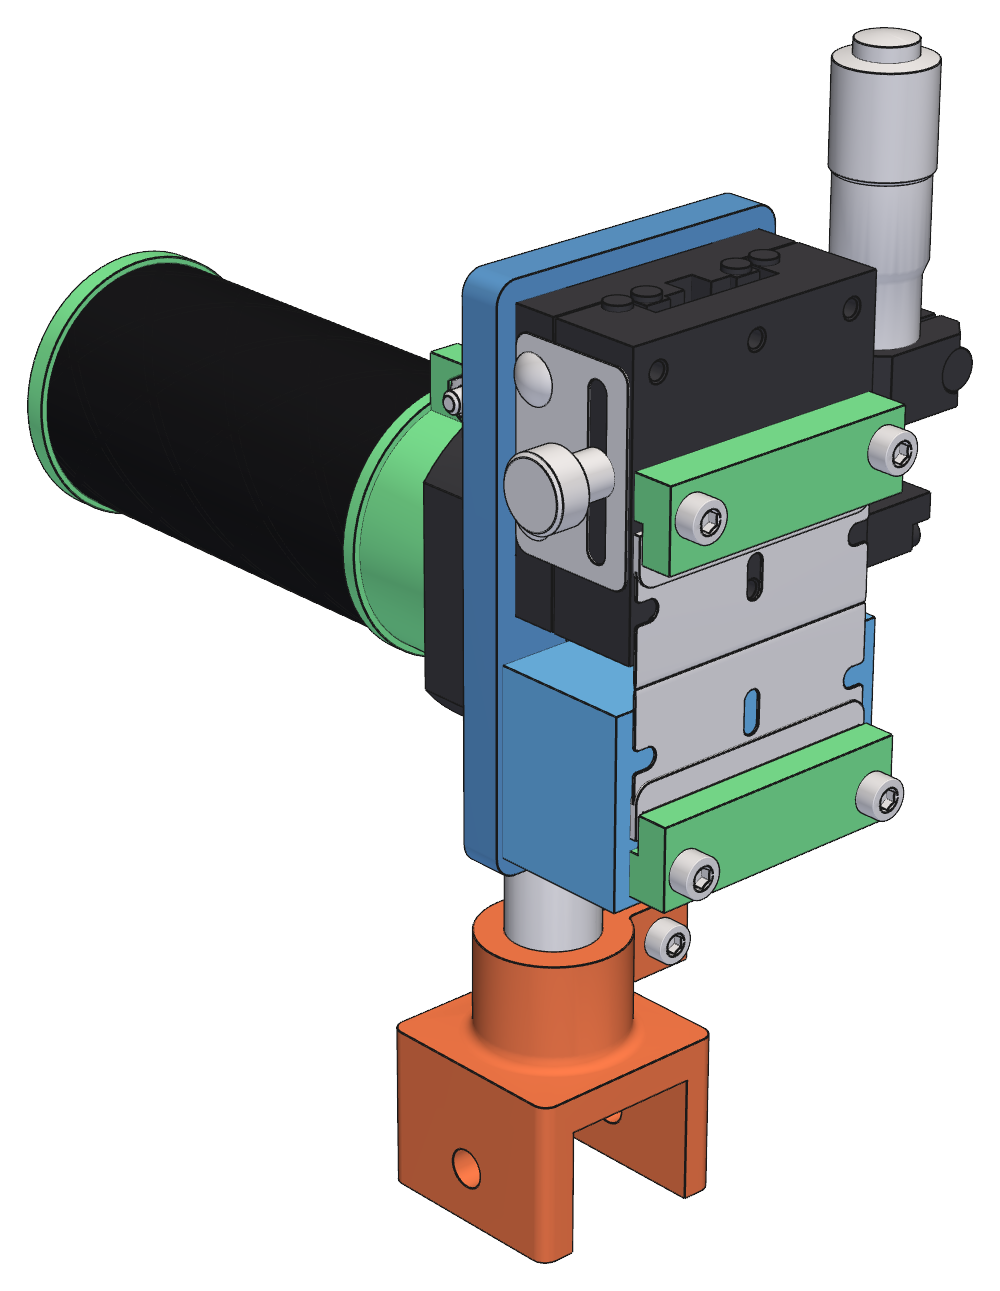
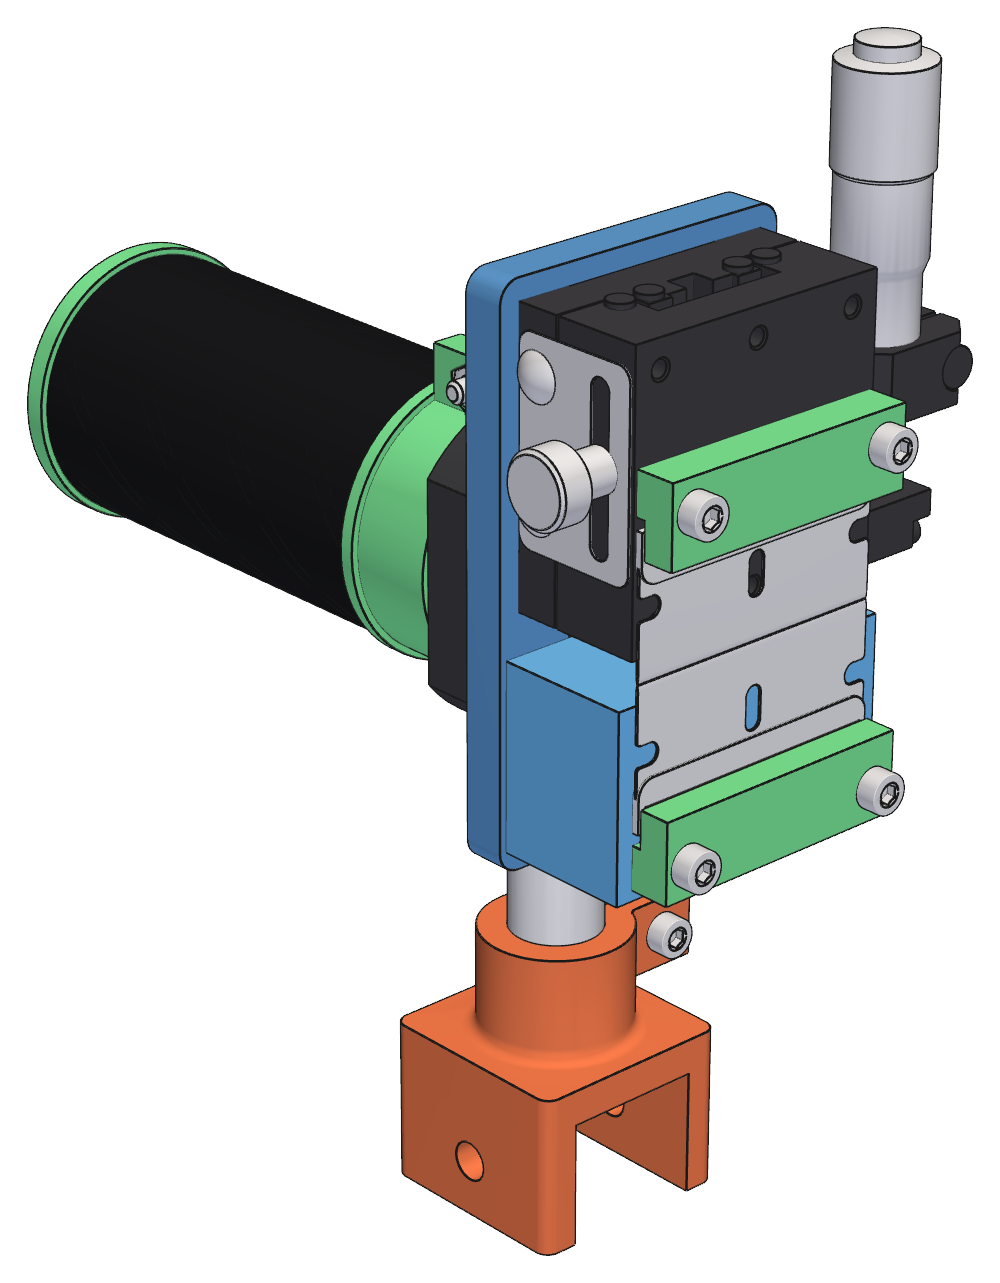
Fix slit-stage toe EPDM pads not cut by the blades

diff --git a/tests/test_slit_stage.py b/tests/test_slit_stage.py
@@ -169,6 +169,17 @@ class SlitStageTests(unittest.TestCase):
                 self.assertFalse(bar.is_inside(Vector(x, p.toe_thickness / 2, sign * p.toe_z)))
                 self.assertTrue(bar.is_inside(Vector(x + 2.5, p.toe_thickness / 2, sign * p.toe_z)))
 
+    def test_assembled_toe_pads_are_cut_by_the_blades_at_any_rotation(self):
+        p = self.p
+        uncompressed = _toe_pad(p).volume
+        for rotation in (0.0, 30.0):
+            parts = leaves(build_slit_stage_assembly(p, rotation=rotation, include_support=False))
+            by_label = {part.label: part for part in parts}
+            for name in ("Movable", "Stationary"):
+                pad = by_label[f"{name} toe EPDM"]
+                self.assertAlmostEqual(overlap_volume(pad, by_label[f"{name} blade"]), 0, places=6)
+                self.assertLess(pad.volume, uncompressed - 1.0)  # The compression is taken out of it.
+
     def test_pedestal_takes_heat_set_inserts_for_toe_and_mounting_screws(self):
         p = self.p
         depth = p.insert_flange_recess_depth + p.insert_hole_depth

diff --git a/src/schlieren/parts/slit_stage.py b/src/schlieren/parts/slit_stage.py
@@ -577,10 +577,11 @@ def build_slit_stage_assembly(p=None, rotation=0.0, include_support=True, side_s
     bar = build_toe_bar(p)
     pad = _toe_pad(p)
     for side, name, turn in ((1, "Movable", 0), (-1, "Stationary", 180)):
-        placed = loc * Pos(0, 0, side * p.toe_z) * Rot(Y=turn)
+        local = Pos(0, 0, side * p.toe_z) * Rot(Y=turn)  # Head frame -> bar frame, without the head's placement.
+        placed = loc * local
         children.append(labeled(bar, f"{name} toe bar", PRINTED_GREEN, placed))
         # The pad is compressed by the plate: shown with the blade's volume taken out of it.
-        pad_shown = pad - moved(blade(p, side), placed.inverse())
+        pad_shown = pad - moved(blade(p, side), local.inverse())
         children.append(labeled(pad_shown, f"{name} toe EPDM", RUBBER, placed))
         for i, x in enumerate(p.toe_x, 1):
             on_axis = loc * Pos(x, 0, side * p.toe_z) * Rot(X=90)
